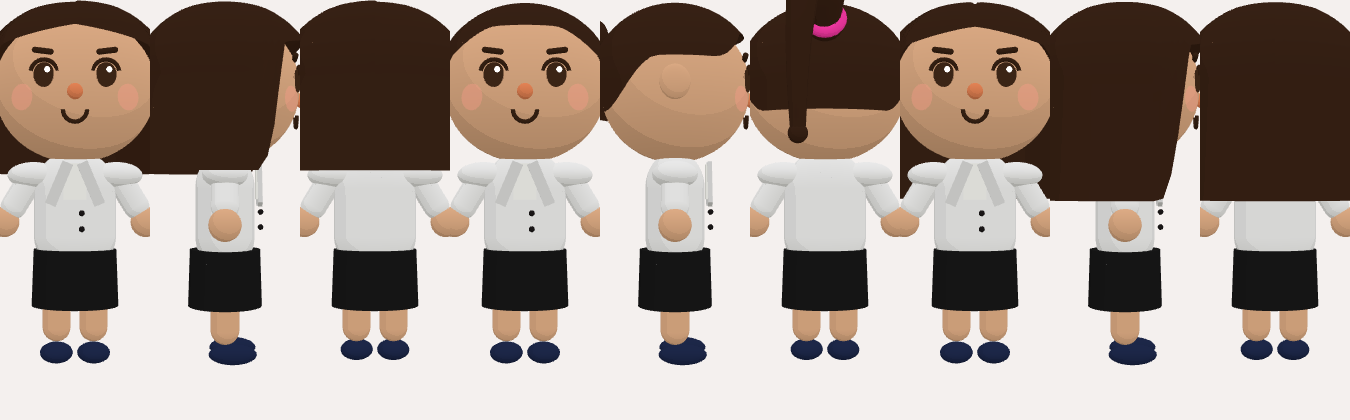
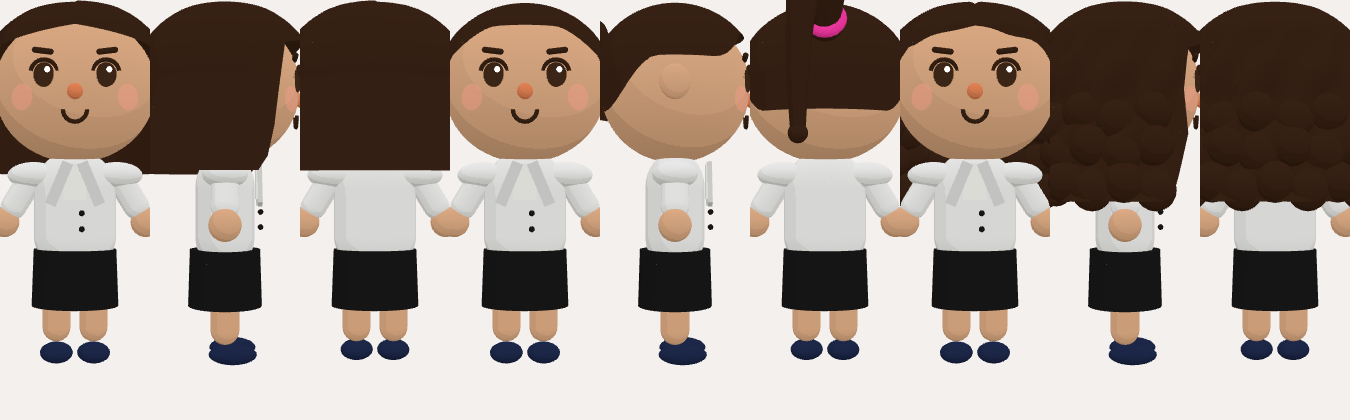
남/여 버튼 다시 누르면 얼굴 5종 순환, 남자 수염 랜덤(까칠/염소/턱수염/구레나룻/콧수염), 버즈컷·8:2 가르마, '기본' 라벨, 긴 파마

diff --git a/public/world.js b/public/world.js
@@ -237,15 +237,23 @@ function makeChibi(opts){const M=chibiMats(opts),f=opts.gender==='f',st=['basic'
  // 머리
  const head=new THREE.Group();head.position.y=.54;head.scale.setScalar(1.12);torso.add(head);
  head.add(mesh(G.sph(.31,40,30),M.skin,[0,.26,0],[1.06,.96,.98]));
- [-1,1].forEach(s=>{
-  head.add(mesh(G.sph(.04,18,14),M.eye,[s*.115,.28,.285],[1,1.15,.45]));head.add(mesh(G.sph(.012,8,6),M.hl,[s*.115+.012,.297,.302]));
-  head.add(mesh(new THREE.TorusGeometry(.05,.008,6,14,Math.PI*.9),M.dbrown,[s*.115,.285,.29],null,[0,0,Math.PI*.05])); // 눈꺼풀 선
-  head.add(mesh(G.cap(.011,.06),M.dbrown,[s*.12,.37,.275],null,[0,0,Math.PI/2+s*.12])); // 눈썹
-  head.add(mesh(new THREE.CircleGeometry(.05,20),M.blush,[s*.2,.2,.255],null,[0,s*.6,0]));
+ const FC=npc?0:(LK.face||0),BD=npc||f?'':(LK.beard||'');if(FC===2)head.children[0].scale.set(1.1,.94,.98);if(FC===3)head.children[0].scale.set(1.02,1,.98); // 턱선
+ const MZ=BD==='full'?.03:0; // 수염 위로 입이 보이게
+ const arcEye=(x)=>head.add(mesh(new THREE.TorusGeometry(.04,.01,6,14,Math.PI),M.dbrown,[x,.27,.29])); // 웃는 눈 ∩
+ [-1,1].forEach(s=>{const x=s*.115;
+  if(FC===1||(FC===4&&s<0))arcEye(x);
+  else{const sc=FC===2?[1,.55,.45]:FC===3?[1.25,1.35,.45]:[1,1.15,.45];head.add(mesh(G.sph(.04,18,14),M.eye,[x,.28,.285],sc));head.add(mesh(G.sph(FC===3?.016:.012,8,6),M.hl,[x+.012,.297,.302]));if(FC===3)head.add(mesh(G.sph(.007,6,5),M.hl,[x-.01,.268,.304]));
+   if(FC!==2)head.add(mesh(new THREE.TorusGeometry(FC===3?.058:.05,.008,6,14,Math.PI*.9),M.dbrown,[x,.285,.29],null,[0,0,Math.PI*.05]));}
+  const by=FC===3?.39:FC===2?.355:FC===4&&s>0?.385:.37,br=FC===2?Math.PI/2-s*.25:Math.PI/2+s*.12;head.add(mesh(G.cap(FC===2?.013:.011,.06),M.dbrown,[s*.12,by,.275],null,[0,0,br])); // 눈썹
+  head.add(mesh(new THREE.CircleGeometry(FC===3?.06:.05,20),M.blush,[s*.2,.2,.255],null,[0,s*.6,0]));
   head.add(mesh(G.sph(.065),M.skin,[s*.32,.25,0],[.55,1,.9])); // 귀
  });
  head.add(mesh(G.sph(.03,14,10),M.nose,[0,.215,.315],[1,1,1.1]));
- head.add(mesh(new THREE.TorusGeometry(.045,.008,6,14,Math.PI),M.dbrown,[0,.15,.29],null,[0,0,Math.PI]));
+ if(FC===2)head.add(mesh(G.cap(.008,.05),M.dbrown,[0,.15,.293+MZ],null,[0,0,Math.PI/2])); // 무표정 일자 입
+ else if(FC===3)head.add(mesh(new THREE.TorusGeometry(.022,.008,8,16),M.dbrown,[0,.145,.293+MZ])); // 놀란 o 입
+ else if(FC===4||FC===1){head.add(mesh(new THREE.CircleGeometry(.05,20,Math.PI,Math.PI),M.T('#7a2030'),[0,.16,.293+MZ]));} // 활짝 웃는 입
+ else head.add(mesh(new THREE.TorusGeometry(.045,.008,6,14,Math.PI),M.dbrown,[0,.15,.29+MZ],null,[0,0,Math.PI]));
+ if(BD)beard(head,M,BD);
  hair(head,M,opts,st);
  // 팔 (짧게, 비스듬히 벌림) + 공 모양 손
  const arms=[-1,1].map(s=>{const a=new THREE.Group();a.position.set(s*.2,.43,0);torso.add(a);
@@ -316,11 +324,11 @@ const sstep=(a,b,x)=>{const t=Math.min(1,Math.max(0,(x-a)/(b-a)));return t*t*(3-
 const line3=(fr,sd,bk)=>f=>{const P=Math.PI;return f<P*.45?fr+(sd-fr)*sstep(P*.12,P*.36,f):sd+(bk-sd)*sstep(P*.56,P*.78,f);}; /* 옆은 귀 위로 수평, 뒤는 목덜미까지 */
 const partGroove=(ph,th)=>{const a=Math.atan2(Math.sin(ph),Math.cos(ph));return th<Math.PI*.4?-.035*Math.exp(-((a/.07)**2))*(1-th/(Math.PI*.4)):0;}; // 가운데 가르마
 function hairPick(head,M,H0,k){const H=H0.clone();H.side=THREE.DoubleSide;H.roughness=.55;H.metalness=.05;const P=Math.PI;const add=(g,p,sc,r)=>head.add(mesh(g,H,p||[0,0,0],sc,r));
- const sidePart=(ph,th)=>{const a=Math.atan2(Math.sin(ph),Math.cos(ph));return th<Math.PI*.38?-.05*Math.exp(-(((a-.5)/.08)**2))*(1-th/(Math.PI*.38)):0;}; // 옆 가르마
- if(k==='m1'){ // 크롭: 짧고 단정한 군인/크롭 컷, 옆은 짧게 정리
-  add(hairShell(line3(P*.35,P*.42,P*.58),{bump:(ph,th)=>.01+.012*Math.max(0,1-th/(P*.35))}));return;}
+ const sidePart=(ph,th)=>{const a=Math.atan2(Math.sin(ph),Math.cos(ph));return th<Math.PI*.38?-.05*Math.exp(-(((a-1.0)/.08)**2))*(1-th/(Math.PI*.38)):0;}; // 옆 가르마
+ if(k==='m1'){ // 버즈컷(반삭)
+  const Bz=H.clone();Bz.transparent=true;Bz.opacity=.88;head.add(mesh(hairShell(line3(P*.33,P*.44,P*.6),{bump:()=>.004}),Bz)); /* 버즈컷(반삭): 두피에 바짝 */return;}
  if(k==='m2'){ // 가르마: 옆 가르마 댄디, 위쪽 부드러운 볼륨
-  add(hairShell(line3(P*.3,P*.43,P*.6),{bump:(ph,th)=>{const a=Math.atan2(Math.sin(ph),Math.cos(ph));const top=.06*Math.max(0,1-th/(P*.42));const sweep=a<.5&&a>-1.6&&th<P*.34?.06*Math.sin(Math.min(1,(.5-a)/.3)*P/2)*(1-th/(P*.34)):0;return .015+top+sweep+sidePart(ph,th);}}));return;}
+  add(hairShell(line3(P*.3,P*.43,P*.6),{bump:(ph,th)=>{const a=Math.atan2(Math.sin(ph),Math.cos(ph));const top=.06*Math.max(0,1-th/(P*.42));const sweep=a<1.0&&a>-1.6&&th<P*.34?.06*Math.sin(Math.min(1,(1.0-a)/.3)*P/2)*(1-th/(P*.34)):0; /* 8:2 가르마 */return .015+top+sweep+sidePart(ph,th);}}));return;}
  if(k==='m3'){ // 쉐이브: 옆은 짧게 밀고(페이드) 앞머리를 위로 쓸어올린 볼륨
   add(hairShell(line3(P*.3,P*.43,P*.6),{rx:.348,bump:(ph,th,f)=>{const fr=Math.max(0,Math.cos(f));return .005+.24*fr*fr*Math.exp(-(((th-P*.22)/(P*.12))**2))+.05*Math.max(0,1-th/(P*.3));}}));
   const F=H.clone();F.transparent=true;F.opacity=.45;head.add(mesh(hairShell(line3(P*.2,P*.47,P*.63),{rx:.343,rz:.33,ry:.32}),F));return;}
@@ -334,10 +342,20 @@ function hairPick(head,M,H0,k){const H=H0.clone();H.side=THREE.DoubleSide;H.roug
   const tg=new THREE.TubeGeometry(c,40,1,14,false),pa=tg.attributes.position,v=new THREE.Vector3();for(let i=0;i<=40;i++){const t=i/40,q=c.getPoint(t),r=.08*(t<.1?.75+t*2.5:1-(t-.1)*.75);for(let j=0;j<=14;j++){const n=i*15+j;v.fromBufferAttribute(pa,n).sub(q).multiplyScalar(r).add(q);pa.setXYZ(n,v.x,v.y,v.z);}}
   tg.computeVertexNormals();add(tg);add(G.sph(.034,12,10),[.09,.04,-.61]);
   return;}
- if(k==='f3'){ // 긴머리: 가운데 가르마, 어깨 아래까지 곧게
-  add(hairShell(f=>f<P*.25?P*.32+P*.06*f/(P*.25):f<P*.4?P*.38+(P*.95-P*.38)*sstep(P*.25,P*.4,f):P*.95,{rx:.375,rz:.36,flare:.05,drop:1,bump:(ph,th)=>.045*Math.min(1,th*2)+partGroove(ph,th)}));
+ if(k==='f3'){ // 긴 파마: 가운데 가르마, 어깨 아래까지 굵은 웨이브
+  add(hairShell(f=>f<P*.25?P*.32+P*.06*f/(P*.25):f<P*.4?P*.38+(P*.95-P*.38)*sstep(P*.25,P*.4,f):P*.95,{rx:.38,rz:.365,flare:.16,drop:1,bump:(ph,th)=>.05*Math.min(1,th*2)+(th>P*.3?.055*Math.sin(ph*12+th*6)*Math.min(1,(th-P*.3)*2)+.03*Math.sin(th*9):0)+partGroove(ph,th)}));
+  for(const [y,k,n] of [[-.15,1.2,15],[-.02,1.13,14],[.1,1.06,12]])for(let q=0;q<n;q++){const ph=P*.42+q/(n-1)*P*1.16;const rr=.38*k;add(G.sph(.075,14,10),[Math.sin(ph)*rr,y+(q%2)*.03,Math.cos(ph)*rr*.96]);} // 파마 컬
   return;}
 }
+// 남자 수염: 까칠/염소/짧은 턱수염/구레나룻/콧수염
+function beard(head,M,k){const P=Math.PI,B=M.hair.clone();B.side=THREE.DoubleSide;const jaw=(t0,tl,op,r=.322)=>{const m=B.clone();if(op<1){m.transparent=true;m.opacity=op;}head.add(mesh(new THREE.SphereGeometry(r,36,14,P/2-.95,1.9,P*t0,P*tl),m,[0,.26,0],[1.06,.96,.98]));};
+ const must=()=>[-1,1].forEach(s=>head.add(mesh(G.cap(.014,.045),B,[s*.032,.183,.303],null,[0,0,P/2+s*.25])));
+ const goat=()=>head.add(mesh(G.sph(.05,16,12),B,[0,.075,.27],[1,1.1,.6]));
+ if(k==='stubble')jaw(.64,.26,.28);
+ if(k==='full'){jaw(.66,.25,1,.326);must();}
+ if(k==='goatee'){goat();must();}
+ if(k==='mustache')must();
+ if(k==='sideburns')[-1,1].forEach(s=>head.add(mesh(G.box(.035,.15,.07),B,[s*.315,.22,.07])));}
 // 액세서리: 안경 / 선글라스
 function accessory(head,a){if(!a||a==='none')return;const g=new THREE.Group();g.position.set(0,.275,.33);head.add(g);
  const frame=new THREE.MeshStandardMaterial({color:a==='sunglasses'?'#111':'#3a2a1a',metalness:.5,roughness:.3});

diff --git a/public/app.js b/public/app.js
@@ -8,14 +8,14 @@ try{Object.assign(me,JSON.parse(localStorage.getItem('profile')||'{}'));}catch(e
 const others={};const scene=document.querySelector('a-scene');
 const humanOpts=p=>({...LOOKS.resolve(p),outfit:p.outfit||null,skin:p.skin||'#f2c29a',gender:p.gender==='f'?'f':'m',style:['basic','suit','disco','hanbok','aerobic'].includes(p.style)?p.style:'suit'});
 const SKINS=['#f2c29a','#ffdcc0','#d9a074','#a8724a'];
-const STYLE_NAMES={m:{basic:'&lt;기본&gt;',suit:'정장',disco:'디스코',hanbok:'한복',aerobic:'에어로빅'},f:{basic:'&lt;기본&gt;',suit:'정장',disco:'디스코',hanbok:'한복',aerobic:'에어로빅'}};
+const STYLE_NAMES={m:{basic:'기본',suit:'정장',disco:'디스코',hanbok:'한복',aerobic:'에어로빅'},f:{basic:'기본',suit:'정장',disco:'디스코',hanbok:'한복',aerobic:'에어로빅'}};
 // 모바일 성능: 픽셀 비율 낮추기
 scene.addEventListener('loaded',()=>{if(IS_MOBILE&&scene.renderer)scene.renderer.setPixelRatio(Math.min(1.25,devicePixelRatio));});
 // ---------- 입장 화면 ----------
 const palHtml=k=>LOOKS.PALETTE.map(([c,n])=>`<span class="swatch ${k}" data-v="${c}" title="${n}" style="background:${c}"></span>`).join('');$('swTop').innerHTML=palHtml('tp');$('swBot').innerHTML=palHtml('bt');
 $('accs').innerHTML=LOOKS.ACC.map(a=>`<button class="opt a" data-v="${a}">${LOOKS.ACC_NAME[a]}</button>`).join('');
 function renderHairs(){$('hairs').innerHTML=LOOKS.HAIR[me.gender==='f'?'f':'m'].map(([k,n])=>`<button class="opt h${(me.hair||'')===k?' sel':''}" data-v="${k}">${n}</button>`).join('');}
-function fillLook(){const r=LOOKS.resolve(me);me.top=r.top;me.bottom=r.bottom;me.acc=r.acc;me.hair=r.hair;}
+function fillLook(){const r=LOOKS.resolve(me);me.top=r.top;me.bottom=r.bottom;me.acc=r.acc;me.hair=r.hair;me.face=r.face;me.beard=r.beard;}
 $('skins').innerHTML=SKINS.map(c=>`<span class="swatch sk" data-v="${c}" style="background:${c}"></span>`).join('');
 function renderStyles(){$('styles').innerHTML=Object.entries(STYLE_NAMES[me.gender==='f'?'f':'m']).map(([k,v])=>`<button class="opt s${me.style===k?' sel':''}" data-v="${k}">${v}</button>`).join('');}
 // 미리보기 (작은 3D 캔버스)
@@ -28,7 +28,7 @@ function syncOpts(){fillLook();renderHairs();$('nick').value=me.nick;document.qu
  document.querySelectorAll('#skins .swatch').forEach(b=>b.classList.toggle('sel',b.dataset.v===me.skin));updatePreview();}
 syncOpts();
 $('entry').addEventListener('click',e=>{const b=e.target;const resetCol=()=>{const d=LOOKS.DEF[me.gender==='f'?'f':'m'][me.style];me.top=d[0];me.bottom=d[1];delete me.outfit;};
- if(b.classList.contains('g')){me.gender=b.dataset.v;me.hair='';resetCol();}if(b.classList.contains('s')){me.style=b.dataset.v;resetCol();}
+ if(b.classList.contains('g')){const rb=()=>LOOKS.BEARDS[Math.floor(Math.random()*LOOKS.BEARDS.length)];if(me.gender===b.dataset.v){me.face=((+me.face||0)+1)%LOOKS.FACES;} /* 같은 성별 버튼 다시 누르면 다음 얼굴 */else{me.gender=b.dataset.v;me.hair='';me.face=0;resetCol();}me.beard=me.gender==='m'?rb():'';}if(b.classList.contains('s')){me.style=b.dataset.v;resetCol();}
  if(b.classList.contains('sk'))me.skin=b.dataset.v;else if(b.classList.contains('tp')){me.top=b.dataset.v;delete me.outfit;}else if(b.classList.contains('bt')){me.bottom=b.dataset.v;delete me.outfit;}
  if(b.classList.contains('h'))me.hair=b.dataset.v;if(b.classList.contains('a'))me.acc=b.dataset.v;me.nick=$('nick').value;syncOpts();});
 $('enter').onclick=()=>{if(window.enterFullscreenMobile&&!window.AUTO_JOIN)enterFullscreenMobile();me.nick=$('nick').value.trim()||('손님'+Math.floor(Math.random()*1000));localStorage.setItem('profile',JSON.stringify(me));
@@ -81,7 +81,7 @@ async function buildAvatar(root,p,mine){if(root._h){HUMANS.delete(root._h);root.
  const h=await makeHuman(root,humanOpts(p));if(!h||root._tok!==token){if(h)h.dispose();return;}root._h=h;HUMANS.add(h);}
 function upsertOther(p){if(p.id===myId)return;let o=others[p.id];
  if(!o){const el=document.createElement('a-entity');$('others').appendChild(el);o=others[p.id]={el,target:new THREE.Vector3(...(p.pos||[0,0,4])),rot:p.rot||0};el.object3D.position.copy(o.target);}
- const key=[p.nick,p.gender,p.style,p.outfit,p.top,p.bottom,p.acc,p.hair,p.skin].join('|');if(o.key!==key){o.key=key;buildAvatar(o.el,p);}if(p.drinks&&o.el._h&&!(o.el._h.drinks||[]).length)o.el._h.drinks=p.drinks.slice();o.data=p;o.dance=p.dance||0;applySeatPose(o,p.seat);}
+ const key=[p.nick,p.gender,p.style,p.outfit,p.top,p.bottom,p.acc,p.hair,p.face,p.beard,p.skin].join('|');if(o.key!==key){o.key=key;buildAvatar(o.el,p);}if(p.drinks&&o.el._h&&!(o.el._h.drinks||[]).length)o.el._h.drinks=p.drinks.slice();o.data=p;o.dance=p.dance||0;applySeatPose(o,p.seat);}
 function applySeatPose(o,seat){o.seat=seat;const s=SEATS.find(x=>x.id===seat);if(s){o.target.set(s.x,s.y||0,s.z);o.rot=s.yaw;}}
 AFRAME.registerComponent('others-lerp',{tick(){for(const id in others){const o=others[id],p=o.el.object3D.position,d=p.distanceTo(o.target);p.lerp(o.target,.15);
  let r=o.rot-o.el.object3D.rotation.y;r=Math.atan2(Math.sin(r),Math.cos(r));o.el.object3D.rotation.y+=r*.2;

diff --git a/public/looks.js b/public/looks.js
@@ -2,18 +2,19 @@
 (function(root){
  const PALETTE=[['#1a1a1a','검정'],['#f5f5f5','흰색'],['#e0262e','빨강'],['#ff8c00','주황'],['#ffd400','노랑'],['#2f9e44','초록'],['#2f7bff','파랑'],['#24306e','남색'],['#7b2cbf','보라'],['#ff69b4','분홍']];
  const STYLES=['basic','suit','disco','hanbok','aerobic'],ACC=['none','glasses','sunglasses'],ACC_NAME={none:'없음',glasses:'안경',sunglasses:'선글라스'};
- const HAIR={m:[['','기본'],['m1','크롭'],['m2','가르마'],['m3','쉐이브']],f:[['','기본'],['f1','단발'],['f2','포니테일'],['f3','긴머리']]};
+ const HAIR={m:[['','기본'],['m1','버즈컷'],['m2','가르마'],['m3','쉐이브']],f:[['','기본'],['f1','단발'],['f2','포니테일'],['f3','긴 파마']]};
  // 성별/의상별 기본 상의·하의 색
  const DEF={m:{basic:['#f5f5f5','#2f7bff'],suit:['#24306e','#24306e'],disco:['#f5f5f5','#2f7bff'],hanbok:['#2f9e44','#1a1a1a'],aerobic:['#f5f5f5','#ff69b4']},
             f:{basic:['#f5f5f5','#2f7bff'],suit:['#7b2cbf','#7b2cbf'],disco:['#2f7bff','#2f7bff'],hanbok:['#ffd400','#e0262e'],aerobic:['#f5f5f5','#ff69b4']}};
  const HEX=/^#[0-9a-fA-F]{6}$/;
  // 예전 저장값(outfit 한 가지 색)도 그대로: 옛날 색은 상의로 (여자 한복은 치마가 주색이라 하의로)
+ const FACES=5,BEARDS=['','stubble','goatee','full','sideburns','mustache']; // 얼굴 5종, 남자 수염(없음 포함)
  function resolve(o){o=o||{};const g=o.gender==='f'?'f':'m',st=STYLES.includes(o.style)?o.style:'suit',d=DEF[g][st];
   const legacy=HEX.test(o.outfit||'')?o.outfit:null,legacyBottom=g==='f'&&st==='hanbok';
   const top=HEX.test(o.top||'')?o.top:(legacy&&!legacyBottom?legacy:d[0]);
   const bottom=HEX.test(o.bottom||'')?o.bottom:(legacy&&legacyBottom?legacy:d[1]);
-  const acc=ACC.includes(o.acc)?o.acc:'none';const hair=HAIR[g].some(h=>h[0]===o.hair)?o.hair:'';
-  return{gender:g,style:st,top,bottom,acc,hair};}
- const api={PALETTE,STYLES,ACC,ACC_NAME,HAIR,DEF,resolve,HEX};
+  const acc=ACC.includes(o.acc)?o.acc:'none';const face=Number.isInteger(+o.face)&&+o.face>=0&&+o.face<FACES?+o.face:0;const beard=g==='m'&&BEARDS.includes(o.beard)?o.beard:'';const hair=HAIR[g].some(h=>h[0]===o.hair)?o.hair:'';
+  return{gender:g,style:st,top,bottom,acc,hair,face,beard};}
+ const api={FACES,BEARDS,PALETTE,STYLES,ACC,ACC_NAME,HAIR,DEF,resolve,HEX};
  if(typeof module!=='undefined')module.exports=api;else root.LOOKS=api;
 })(typeof window!=='undefined'?window:this);

diff --git a/tests/hair.shot.js b/tests/hair.shot.js
@@ -34,4 +34,8 @@ const p=require('puppeteer-core');const W=ms=>new Promise(r=>setTimeout(r,ms));c
   const sc=new THREE.Scene();sc.add(new THREE.HemisphereLight('#fff','#887',1.3));const dl=new THREE.DirectionalLight('#fff',1.5);dl.position.set(1,2,3);sc.add(dl);
   [['f',{top:'#ffd400',bottom:'#e0262e'}],['f',{top:'#2f7bff',bottom:'#ff69b4'}],['f',{top:'#2f9e44',bottom:'#24306e'}],['m',{top:'#7b2cbf',bottom:'#1a1a1a'}]].forEach(([g,c],i)=>{const ch=makeChibi({...LOOKS.resolve({gender:g,style:'hanbok',hair:g+'1',...c}),gender:g,style:'hanbok',skin:'#e8b48c'});sc.add(ch.root);
    const cm=new THREE.PerspectiveCamera(30,250/420,.1,20);cm.position.set(0,.8,3.6);cm.lookAt(0,.7,0);r.setViewport(i*250,0,250,420);r.setScissor(i*250,0,250,420);r.render(sc,cm);sc.remove(ch.root);});return cv.toDataURL();}));
+ fs.writeFileSync(D+'faces.png',await shot(()=>{const cv=document.createElement('canvas');cv.width=6*200;cv.height=2*220;const r=new THREE.WebGLRenderer({canvas:cv,antialias:true});r.setScissorTest(true);r.setClearColor('#f4f0ee');
+  const sc=new THREE.Scene();sc.add(new THREE.HemisphereLight('#fff','#887',1.3));const dl=new THREE.DirectionalLight('#fff',1.5);dl.position.set(1,2,3);sc.add(dl);
+  const B=['','stubble','goatee','full','sideburns','mustache'];[['m',0],['f',1]].forEach(([g,row])=>[0,1,2,3,4,5].forEach(i=>{const o={gender:g,style:'basic',hair:g==='m'?'m2':'f1',face:i%5,beard:g==='m'?B[i]:''};const ch=makeChibi({...LOOKS.resolve(o),gender:g,style:'basic',skin:'#e8b48c'});sc.add(ch.root);
+   const cm=new THREE.PerspectiveCamera(30,200/220,.1,20);cm.position.set(0,1.3,1.75);cm.lookAt(0,1.22,0);const y=(1-row)*220;r.setViewport(i*200,y,200,220);r.setScissor(i*200,y,200,220);r.render(sc,cm);sc.remove(ch.root);}));return cv.toDataURL();}));
  console.log('hair shot done');await b.close();process.exit(0);})().catch(e=>{console.error(e);process.exit(1);});

diff --git a/tests/looks.test.js b/tests/looks.test.js
@@ -9,7 +9,8 @@ r=L.resolve({gender:'f',style:'hanbok',outfit:'#e0262e'});a.strictEqual(r.bottom
 r=L.resolve({gender:'m',style:'suit',top:'#e0262e',bottom:'#1a1a1a',acc:'sunglasses',hair:'m2'});a.deepStrictEqual([r.top,r.bottom,r.acc,r.hair],['#e0262e','#1a1a1a','sunglasses','m2']);
 r=L.resolve({gender:'f',hair:'m2',acc:'crown',top:'red'});a.strictEqual(r.hair,'');a.strictEqual(r.acc,'none');a.strictEqual(r.top,L.DEF.f.suit[0]);
 a.strictEqual(L.resolve({}).style,'suit');
-a.strictEqual(L.STYLES[0],'basic','<기본> first');r=L.resolve({gender:'f',style:'basic'});a.deepStrictEqual([r.top,r.bottom],['#f5f5f5','#2f7bff']);r=L.resolve({gender:'m',style:'basic',top:'#e0262e',bottom:'#1a1a1a'});a.deepStrictEqual([r.style,r.top,r.bottom],['basic','#e0262e','#1a1a1a']);
+a.strictEqual(L.STYLES[0],'basic','기본 first');r=L.resolve({gender:'f',style:'basic'});a.deepStrictEqual([r.top,r.bottom],['#f5f5f5','#2f7bff']);r=L.resolve({gender:'m',style:'basic',top:'#e0262e',bottom:'#1a1a1a'});a.deepStrictEqual([r.style,r.top,r.bottom],['basic','#e0262e','#1a1a1a']);
+r=L.resolve({gender:'m',face:3,beard:'goatee'});a.deepStrictEqual([r.face,r.beard],[3,'goatee']);r=L.resolve({gender:'f',face:9,beard:'full'});a.deepStrictEqual([r.face,r.beard],[0,''],'female no beard, bad face→0');a.deepStrictEqual([L.resolve({}).face,L.resolve({}).beard],[0,''],'old data compat');
 // 서버 동기: 다른 사람에게 상의/하의/액세서리/헤어 전달
 const {io}=require('socket.io-client');const W=ms=>new Promise(x=>setTimeout(x,ms));const U='http://localhost:'+(process.env.PORT||8080);
 (async()=>{const w=io(U,{forceNew:true});const seen={};w.on('player',p=>seen[p.id]=p);const s=io(U,{forceNew:true});await W(400);

diff --git a/server.js b/server.js
@@ -55,7 +55,7 @@ const STATE=process.env.STATE_FILE||path.join(__dirname,'data','state.json');
 const durations={}; // videoId 또는 mp3 id -> 초 (클라이언트가 알려줌)
 const durOf=t=>t&&(t.dur||durations[t.type==='yt'?t.videoId:t.id]);
 const {clean:cleanText,isBad}=require('./filter');
-const STYLES=['basic','suit','disco','hanbok','aerobic'],HEX=/^#[0-9a-fA-F]{6}$/;const LOOKS=require('./public/looks.js');const look=p=>{const r=LOOKS.resolve(p);return{gender:r.gender,style:r.style,outfit:HEX.test(p.outfit)?p.outfit:'',top:r.top,bottom:r.bottom,acc:r.acc,hair:r.hair,skin:HEX.test(p.skin)?p.skin:''};};
+const STYLES=['basic','suit','disco','hanbok','aerobic'],HEX=/^#[0-9a-fA-F]{6}$/;const LOOKS=require('./public/looks.js');const look=p=>{const r=LOOKS.resolve(p);return{gender:r.gender,style:r.style,outfit:HEX.test(p.outfit)?p.outfit:'',top:r.top,bottom:r.bottom,acc:r.acc,hair:r.hair,face:r.face,beard:r.beard,skin:HEX.test(p.skin)?p.skin:''};};
 const players={}; // id -> {nick,gender,outfit,skin,style,pos,rot,seat}
 const music={playlist:[],index:-1,playing:false,startedAt:0,pausedAt:0,shuffle:false};
 let played=new Set(); // 랜덤 재생: 이미 튼 곡 id
